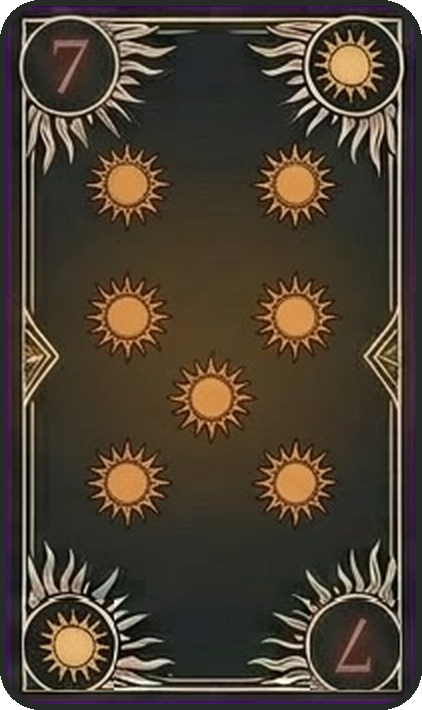
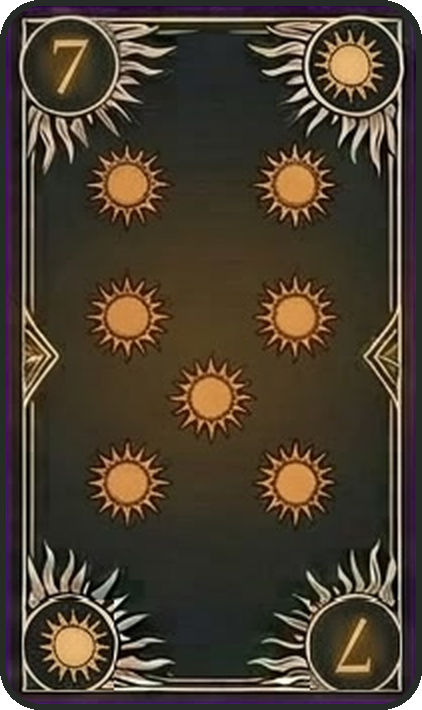
Fix Velvet Arcana rank 7 and 8 deck numerals

diff --git a/velvet-arcana/scripts/extract_purple_deck_cards.py b/velvet-arcana/scripts/extract_purple_deck_cards.py
@@ -46,7 +46,7 @@ RANK_FILES = [
     ("5", "rank-5.jpg"),
     ("6", "rank-6.jpg"),
     ("7", "rank-7.jpg"),
-    ("8", "rank-8-draft.jpg"),
+    ("8", "rank-8.jpg"),
     ("9", "rank-9.jpg"),
     ("10", "rank-10.jpg"),
     ("jack", "rank-jack.jpg"),

diff --git a/velvet-arcana/progress.md b/velvet-arcana/progress.md
@@ -246,7 +246,7 @@ Early blockers
 - User later rejected the promoted `rank-7` except for the Rose card. Saved the good Rose as `/Users/oliviermichon/Documents/autonomoustudio-games/velvet-arcana/art/card-sheets/purple-deck/rank-7-rose-reference.png`, built a hybrid guide with Rose locked in, and reran PlayDrop AI from that guide plus the Rose crop. Saved the stronger result to `/Users/oliviermichon/Documents/autonomoustudio-games/velvet-arcana/output/ai-art/ranks/velvet-arcana-five-card-purple-seven-rose-anchored-v1-generated.jpg`, then promoted it over `/Users/oliviermichon/Documents/autonomoustudio-games/velvet-arcana/art/card-sheets/purple-deck/rank-7.jpg`.
 - Gathered the approved purple full-sheet assets into a clean versioned source folder at `/Users/oliviermichon/Documents/autonomoustudio-games/velvet-arcana/art/card-sheets/purple-deck-sources` containing:
   - `template`
-  - ranks `1-10` (with `rank-8-draft.jpg` still clearly marked as draft)
+  - ranks `1-10`
   - `jack`, `queen`, `king`
   - Sanity check: every full-sheet source in that folder uses the same `1376x768` purple plate.
 - Added a deterministic standalone export script at `/Users/oliviermichon/Documents/autonomoustudio-games/velvet-arcana/scripts/extract_purple_deck_cards.py` and generated a new transparent PNG set at `/Users/oliviermichon/Documents/autonomoustudio-games/velvet-arcana/art/cards/purple-deck-png`.
@@ -353,3 +353,9 @@ Early blockers
 - Added an exact spread solver in src/game/state.ts, used it to guarantee solvable Past and Present deals during createSpread, exposed analyzeCurrentSpread on the debug surface, and verified with tests plus local timing (~0.76s Past / ~1.74s Present on the sampled seeds).
 - Replaced live spread solving at runtime with three shipped seed-pool binaries in assets/seed-pools (`easy`, `medium`, `hard`), loading them at bootstrap and mapping Past->easy, Present->medium, Future->hard; generated 1000 UInt32 seeds per pool with scripts/generate-seed-pools.mjs and revalidated with npm test, npm run validate, playdrop project validate ., and a fresh gameplay capture.
 - Published Velvet Arcana `1.0.5` to PlayDrop under `@autonomoustudio`, confirmed the current live version through `playdrop detail autonomoustudio/app/velvet-arcana` and `playdrop versions browse autonomoustudio/app/velvet-arcana`, and synced the local release status docs.
+- Fixed the deck numeral issues in the canonical sources and regenerated the standalone PNG deck:
+  - promoted corrected rank sheets to `/Users/oliviermichon/Documents/autonomoustudio-games/velvet-arcana/art/card-sheets/purple-deck-sources/rank-7.jpg` and `/Users/oliviermichon/Documents/autonomoustudio-games/velvet-arcana/art/card-sheets/purple-deck-sources/rank-8.jpg`
+  - removed the obsolete `/Users/oliviermichon/Documents/autonomoustudio-games/velvet-arcana/art/card-sheets/purple-deck-sources/rank-8-draft.jpg`
+  - updated `/Users/oliviermichon/Documents/autonomoustudio-games/velvet-arcana/scripts/extract_purple_deck_cards.py` so rank 8 now sources from `rank-8.jpg`
+  - regenerated the corrected standalone `7` and `8` family cards plus the pack contact sheet in `/Users/oliviermichon/Documents/autonomoustudio-games/velvet-arcana/art/cards/purple-deck-png`
+- Published Velvet Arcana `1.0.6` to PlayDrop under `@autonomoustudio`, verified it is live through `playdrop detail autonomoustudio/app/velvet-arcana` and `playdrop versions browse autonomoustudio/app/velvet-arcana`, and pruned old app versions `1.0.0` through `1.0.4` to clear the creator storage limit before publish.

diff --git a/velvet-arcana/README.md b/velvet-arcana/README.md
@@ -37,7 +37,7 @@ The local project is in a `v2` redesign pass. The build target is a tighter Golf
 
 ## Release Status
 
-- Current live PlayDrop release: `1.0.5`
+- Current live PlayDrop release: `1.0.6`
 - Live listing URL: `https://www.playdrop.ai/creators/autonomoustudio/apps/game/velvet-arcana`
 - Live play URL: `https://www.playdrop.ai/creators/autonomoustudio/apps/game/velvet-arcana/play`
 - Note: the local repo may contain redesign work that is newer than the currently live public build until the next republish pass.
